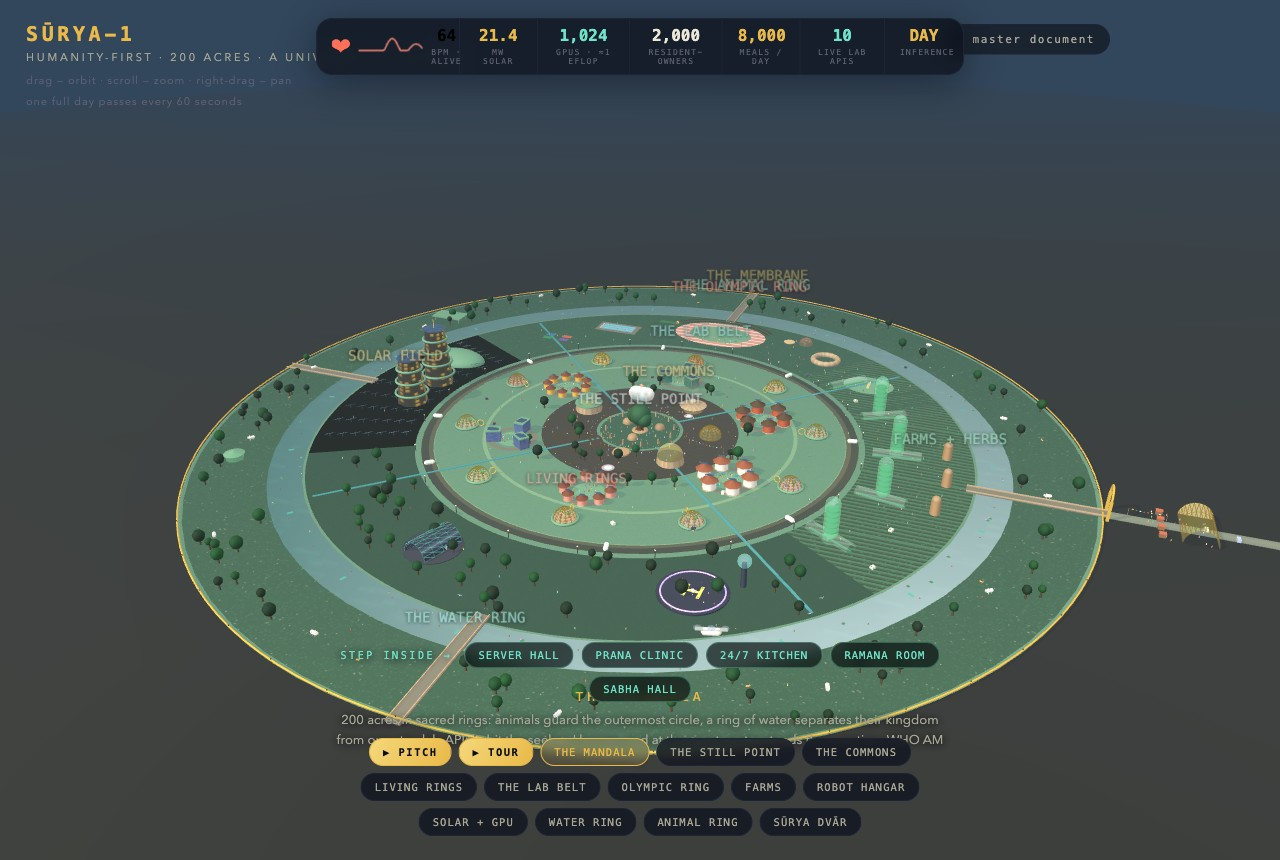
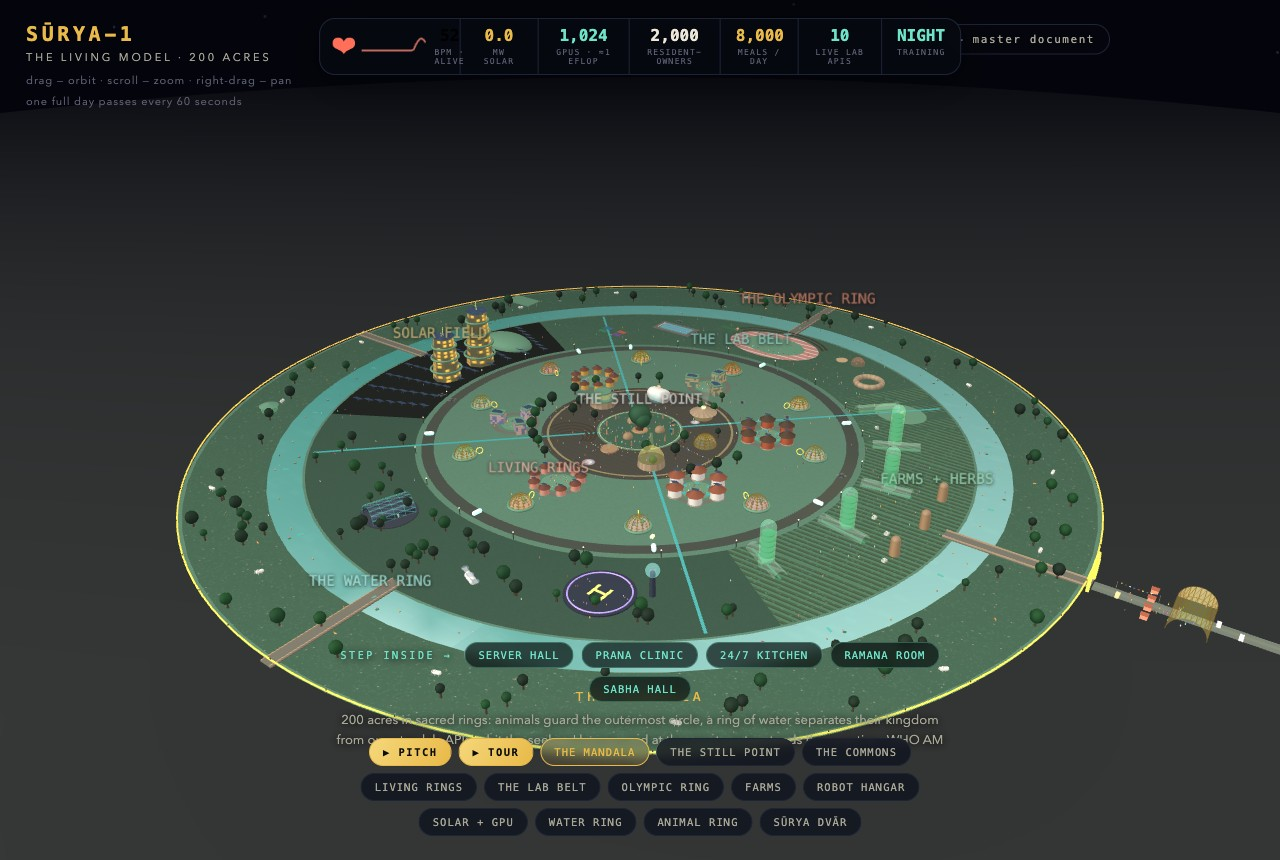
v11 — hero now interactive + auto-pitching (drag/zoom enabled, scroll cue to escape); SCREEN-SPACE label declutter (zone names never overlap, nearest wins); mobile-safe tables (horizontal scroll, no crushed text)

diff --git a/township-3d.html b/township-3d.html
@@ -143,8 +143,8 @@ import { RoomEnvironment } from 'three/addons/environments/RoomEnvironment.js';
 
 const HERO = new URLSearchParams(location.search).get('hud')==='min';
 if (HERO){
-  // hero showcase: hide ALL chrome — just the living model + its light zone plaques
-  for(const id of ['title','back','hint','views','inside','telem','mode','info','vitals','pskip'])
+  // hero: a real interactive toy that pitches itself — keep vitals + caption, drop the heavy chrome
+  for(const id of ['title','back','hint','telem','mode','views','inside'])
     {const el=document.getElementById(id);if(el)el.style.display='none';}
 }
 
@@ -166,9 +166,8 @@ const controls=new OrbitControls(camera,renderer.domElement);
 controls.enableDamping=true;controls.dampingFactor=.07;
 controls.rotateSpeed=.9;controls.zoomSpeed=1.1;
 controls.maxPolarAngle=Math.PI*0.495;controls.minDistance=20;controls.maxDistance=2200;
-controls.autoRotate=true;controls.autoRotateSpeed=HERO?.5:.28;
-if(HERO){controls.enabled=false;}                 // hero: auto-rotate only, never trap page scroll
-else{renderer.domElement.style.touchAction='none';}
+controls.autoRotate=true;controls.autoRotateSpeed=HERO?.4:.28;
+renderer.domElement.style.touchAction='none';     // drag + zoom always work — hero included
 controls.addEventListener('start',()=>{controls.autoRotate=false;stopTour();if(typeof endPitch==='function')endPitch();});
 
 const sunLight=new THREE.DirectionalLight(0xffe9b0,2.6);
@@ -1086,7 +1085,8 @@ const pStat=pitchEl.querySelector('.pstat'),pTitle=pitchEl.querySelector('.ptitl
 const pitch={on:false,idx:-1,timer:0,hold:8};
 if(!HERO){const me=document.getElementById('mode');if(me)me.style.display='none';} // vitals bar shows day/night
 function setExploreUI(show){const d=show?'':'none';
- for(const id of ['vitals','views','inside','info','title','hint','back']){const el=document.getElementById(id);if(el)el.style.display=d;}}
+ const ids = HERO ? ['vitals','info'] : ['vitals','views','inside','info','title','hint','back'];
+ for(const id of ids){const el=document.getElementById(id);if(el)el.style.display=d;}}
 function pitchBeat(){
  pitch.idx++;
  if(pitch.idx>=PITCH.length){endPitch();return;}
@@ -1096,7 +1096,7 @@ function pitchBeat(){
  pTitle.textContent=b.t;pSub.textContent=b.u;
  setTimeout(()=>pitchEl.classList.add('beat'),360);
  pitch.timer=0;}
-function startPitch(){if(HERO)return;pitch.on=true;pitch.idx=-1;
+function startPitch(){pitch.on=true;pitch.idx=-1;
  controls.autoRotate=false;stopTour();setExploreUI(false);
  pitchEl.classList.add('show');pskip.style.display='block';pitchBeat();}
 function endPitch(){if(!pitch.on)return;pitch.on=false;
@@ -1122,6 +1122,7 @@ const clock=new THREE.Clock();
 let batt=72,lastTelem=0;
 const dummy=new THREE.Object3D();
 const tmpV2=new THREE.Vector2();
+const _lblV=new THREE.Vector3();
 function herd(arr,dt,t){
  for(const a of arr){
   a.timer-=dt;
@@ -1331,17 +1332,32 @@ function animate(){
   vMode.textContent=day>.08?'DAY':'NIGHT';vMode.className='vv '+(day>.08?'gold':'teal');
   vModeL.textContent=day>.08?'inference':'training';}
 
- /* plaque labels: TRUE constant on-screen px size + distance-band fade (auto-declutter) */
- {const vpx=renderer.domElement.clientHeight||innerHeight;
-  const f=2*Math.tan(THREE.MathUtils.degToRad(camera.fov)/2)/vpx;
+ /* plaque labels: constant on-screen size + SCREEN-SPACE DECLUTTER (no two ever overlap) */
+ {const vw=renderer.domElement.clientWidth||innerWidth, vh=renderer.domElement.clientHeight||innerHeight;
+  const f=2*Math.tan(THREE.MathUtils.degToRad(camera.fov)/2)/vh;
+  const cands=[];
   for(const L of allLabels){
+   L.tgt=0;
    const d=camera.position.distanceTo(L.sp.position);
-   const h=L.px*f*d;                       // world height that renders at L.px screen pixels
-   L.sp.scale.set(h*L.ar,h,1);
-   let o;
-   if(L.tier===1) o=THREE.MathUtils.smoothstep(d,55,130)*0.72;                                  // zone titles: hide when you're inside a zone
-   else o=THREE.MathUtils.smoothstep(d,16,38)*(1-THREE.MathUtils.smoothstep(d,95,160))*0.9;      // buildings: only when close
-   L.sp.material.opacity+=(o-L.sp.material.opacity)*.16;
+   const h=L.px*f*d; L.sp.scale.set(h*L.ar,h,1);     // hold a constant pixel size
+   const o = L.tier===1 ? THREE.MathUtils.smoothstep(d,55,130)*0.82
+                        : THREE.MathUtils.smoothstep(d,16,40)*(1-THREE.MathUtils.smoothstep(d,120,200))*0.92;
+   if(o<=0.02) continue;
+   _lblV.copy(L.sp.position).project(camera);
+   if(_lblV.z>1 || _lblV.x<-1.15||_lblV.x>1.15||_lblV.y<-1.15||_lblV.y>1.15) continue;  // off-screen / behind
+   cands.push({L,d,o,sx:(_lblV.x*.5+.5)*vw, sy:(-_lblV.y*.5+.5)*vh, w:L.px*L.ar*0.92, h:L.px*1.7});
+  }
+  cands.sort((a,b)=> (a.L.tier-b.L.tier) || (a.d-b.d));   // zone titles win, then nearest wins
+  const occ=[];
+  for(const c of cands){
+   const x=c.sx-c.w/2, y=c.sy-c.h/2;
+   let hit=false;
+   for(let i=0;i<occ.length;i++){const r=occ[i];
+    if(x<r.x+r.w && x+c.w>r.x && y<r.y+r.h && y+c.h>r.y){hit=true;break;}}
+   if(!hit){c.L.tgt=c.o; occ.push({x,y,w:c.w,h:c.h});}
+  }
+  for(const L of allLabels){
+   L.sp.material.opacity+=(L.tgt-L.sp.material.opacity)*.16;
    L.sp.visible=L.sp.material.opacity>0.02;}}
 
  /* cinematic tour pacing */
@@ -1358,8 +1374,8 @@ function animate(){
 animate();
 document.getElementById('loading').style.opacity=0;
 setTimeout(()=>document.getElementById('loading').remove(),900);
-/* the model pitches itself the moment it loads */
-if(!HERO) setTimeout(startPitch,1100);
+/* the model pitches itself the moment it loads — hero included */
+setTimeout(startPitch,1100);
 addEventListener('resize',()=>{camera.aspect=innerWidth/innerHeight;camera.updateProjectionMatrix();renderer.setSize(innerWidth,innerHeight);});
 </script>
 </body>

diff --git a/index.html b/index.html
@@ -35,11 +35,13 @@
     filter:drop-shadow(0 2px 18px rgba(0,0,0,.75));}
   .h3o .claim{font-family:var(--serif);font-size:clamp(17px,2.4vw,26px);font-weight:300;font-style:italic;color:var(--ink);margin-top:8px;text-shadow:0 1px 12px #000}
   .h3o .claim b{font-weight:600;font-style:normal;color:var(--gold)}
-  .h3cue{position:absolute;bottom:14px;left:38px;z-index:5;pointer-events:none;
-    font-family:var(--mono);font-size:11px;letter-spacing:.22em;text-transform:uppercase;color:var(--dim);
-    text-shadow:0 1px 8px #000;animation:bob3 3s ease-in-out infinite}
-  @keyframes bob3{0%,100%{transform:translateY(0)}50%{transform:translateY(6px)}}
-  @media(max-width:800px){.hero3d{margin:0 -22px}.h3o{left:20px;top:20px}.h3cue{left:20px}}
+  .h3cue{position:absolute;bottom:18px;left:50%;transform:translateX(-50%);z-index:6;pointer-events:auto;cursor:pointer;
+    font-family:var(--mono);font-size:11px;letter-spacing:.16em;text-transform:uppercase;color:var(--ink);
+    background:rgba(6,9,16,.7);border:1px solid var(--line);border-radius:99px;padding:10px 20px;backdrop-filter:blur(6px);
+    animation:bob3 3s ease-in-out infinite;white-space:nowrap}
+  .h3cue:hover{border-color:var(--gold);color:var(--gold)}
+  @keyframes bob3{0%,100%{transform:translate(-50%,0)}50%{transform:translate(-50%,6px)}}
+  @media(max-width:800px){.hero3d{margin:0 -22px;height:86vh}.h3o{left:20px;top:20px}.h3cue{font-size:10px;letter-spacing:.1em;padding:9px 14px}}
 
   /* ── HERO ── */
   .hero{min-height:100vh;display:flex;flex-direction:column;justify-content:center;padding:90px 0 70px;position:relative;
@@ -187,6 +189,16 @@
   section.rev{opacity:0;transform:translateY(26px);transition:opacity .9s ease,transform .9s ease}
   section.rev.vis{opacity:1;transform:none}
   @media(prefers-reduced-motion:reduce){section.rev{opacity:1;transform:none;transition:none}}
+  /* tables never overlap on phones — they scroll horizontally inside a neat frame */
+  .tscroll{overflow-x:auto;-webkit-overflow-scrolling:touch;margin:22px 0;border-radius:10px}
+  .tscroll::-webkit-scrollbar{height:6px}.tscroll::-webkit-scrollbar-thumb{background:var(--gold-deep);border-radius:3px}
+  .tscroll table{margin:0;min-width:600px}
+  @media(max-width:760px){
+    body{overflow-x:hidden}
+    table{font-size:12.5px}th,td{padding:9px 10px}
+    h2{font-size:30px}.lede{font-size:17px}p{font-size:16px}
+    .tscroll table{min-width:540px}
+  }
 
   @media(max-width:800px){
     .page{padding:0 22px}
@@ -218,11 +230,11 @@
       <div class="claim">The world's first <b>living model.</b> This is it — running.</div>
       <div style="font-family:var(--mono);font-size:11.5px;letter-spacing:.2em;text-transform:uppercase;color:var(--dim);margin-top:12px;text-shadow:0 1px 8px #000">humanity-first · a university of the committed · humans + AI advancing civilisation together</div>
     </div>
-    <div class="h3cue">drag to orbit · fly between zones · STEP INSIDE the buildings · one day passes every 60s · scroll for the model card ↓</div>
+    <div class="h3cue" onclick="document.getElementById('modelcard').scrollIntoView({behavior:'smooth'})">spin it · pinch to zoom · it's pitching itself — tap to read the full plan ↓</div>
   </div>
 
   <!-- ═══════════════ MODEL CARD ═══════════════ -->
-  <div class="hero" style="min-height:auto;padding:90px 0 80px">
+  <div class="hero" id="modelcard" style="min-height:auto;padding:90px 0 80px">
     <div class="chips">
       <span class="chip">Class: Living Foundation Model</span>
       <span class="chip">200 acres · the mandala · owned</span>
@@ -857,6 +869,11 @@ const io = new IntersectionObserver(es => {
   for (const e of es) if (e.isIntersecting){ e.target.classList.add('vis'); io.unobserve(e.target); }
 }, {threshold: .06});
 document.querySelectorAll('section').forEach(s => { s.classList.add('rev'); io.observe(s); });
+// wrap every table so it scrolls cleanly on phones instead of crushing/overlapping
+document.querySelectorAll('section table').forEach(t => {
+  const w = document.createElement('div'); w.className = 'tscroll';
+  t.parentNode.insertBefore(w, t); w.appendChild(t);
+});
 </script>
 </body>
 </html>

diff --git a/surya-1-master.html b/surya-1-master.html
@@ -35,11 +35,13 @@
     filter:drop-shadow(0 2px 18px rgba(0,0,0,.75));}
   .h3o .claim{font-family:var(--serif);font-size:clamp(17px,2.4vw,26px);font-weight:300;font-style:italic;color:var(--ink);margin-top:8px;text-shadow:0 1px 12px #000}
   .h3o .claim b{font-weight:600;font-style:normal;color:var(--gold)}
-  .h3cue{position:absolute;bottom:14px;left:38px;z-index:5;pointer-events:none;
-    font-family:var(--mono);font-size:11px;letter-spacing:.22em;text-transform:uppercase;color:var(--dim);
-    text-shadow:0 1px 8px #000;animation:bob3 3s ease-in-out infinite}
-  @keyframes bob3{0%,100%{transform:translateY(0)}50%{transform:translateY(6px)}}
-  @media(max-width:800px){.hero3d{margin:0 -22px}.h3o{left:20px;top:20px}.h3cue{left:20px}}
+  .h3cue{position:absolute;bottom:18px;left:50%;transform:translateX(-50%);z-index:6;pointer-events:auto;cursor:pointer;
+    font-family:var(--mono);font-size:11px;letter-spacing:.16em;text-transform:uppercase;color:var(--ink);
+    background:rgba(6,9,16,.7);border:1px solid var(--line);border-radius:99px;padding:10px 20px;backdrop-filter:blur(6px);
+    animation:bob3 3s ease-in-out infinite;white-space:nowrap}
+  .h3cue:hover{border-color:var(--gold);color:var(--gold)}
+  @keyframes bob3{0%,100%{transform:translate(-50%,0)}50%{transform:translate(-50%,6px)}}
+  @media(max-width:800px){.hero3d{margin:0 -22px;height:86vh}.h3o{left:20px;top:20px}.h3cue{font-size:10px;letter-spacing:.1em;padding:9px 14px}}
 
   /* ── HERO ── */
   .hero{min-height:100vh;display:flex;flex-direction:column;justify-content:center;padding:90px 0 70px;position:relative;
@@ -187,6 +189,16 @@
   section.rev{opacity:0;transform:translateY(26px);transition:opacity .9s ease,transform .9s ease}
   section.rev.vis{opacity:1;transform:none}
   @media(prefers-reduced-motion:reduce){section.rev{opacity:1;transform:none;transition:none}}
+  /* tables never overlap on phones — they scroll horizontally inside a neat frame */
+  .tscroll{overflow-x:auto;-webkit-overflow-scrolling:touch;margin:22px 0;border-radius:10px}
+  .tscroll::-webkit-scrollbar{height:6px}.tscroll::-webkit-scrollbar-thumb{background:var(--gold-deep);border-radius:3px}
+  .tscroll table{margin:0;min-width:600px}
+  @media(max-width:760px){
+    body{overflow-x:hidden}
+    table{font-size:12.5px}th,td{padding:9px 10px}
+    h2{font-size:30px}.lede{font-size:17px}p{font-size:16px}
+    .tscroll table{min-width:540px}
+  }
 
   @media(max-width:800px){
     .page{padding:0 22px}
@@ -218,11 +230,11 @@
       <div class="claim">The world's first <b>living model.</b> This is it — running.</div>
       <div style="font-family:var(--mono);font-size:11.5px;letter-spacing:.2em;text-transform:uppercase;color:var(--dim);margin-top:12px;text-shadow:0 1px 8px #000">humanity-first · a university of the committed · humans + AI advancing civilisation together</div>
     </div>
-    <div class="h3cue">drag to orbit · fly between zones · STEP INSIDE the buildings · one day passes every 60s · scroll for the model card ↓</div>
+    <div class="h3cue" onclick="document.getElementById('modelcard').scrollIntoView({behavior:'smooth'})">spin it · pinch to zoom · it's pitching itself — tap to read the full plan ↓</div>
   </div>
 
   <!-- ═══════════════ MODEL CARD ═══════════════ -->
-  <div class="hero" style="min-height:auto;padding:90px 0 80px">
+  <div class="hero" id="modelcard" style="min-height:auto;padding:90px 0 80px">
     <div class="chips">
       <span class="chip">Class: Living Foundation Model</span>
       <span class="chip">200 acres · the mandala · owned</span>
@@ -857,6 +869,11 @@ const io = new IntersectionObserver(es => {
   for (const e of es) if (e.isIntersecting){ e.target.classList.add('vis'); io.unobserve(e.target); }
 }, {threshold: .06});
 document.querySelectorAll('section').forEach(s => { s.classList.add('rev'); io.observe(s); });
+// wrap every table so it scrolls cleanly on phones instead of crushing/overlapping
+document.querySelectorAll('section table').forEach(t => {
+  const w = document.createElement('div'); w.className = 'tscroll';
+  t.parentNode.insertBefore(w, t); w.appendChild(t);
+});
 </script>
 </body>
 </html>